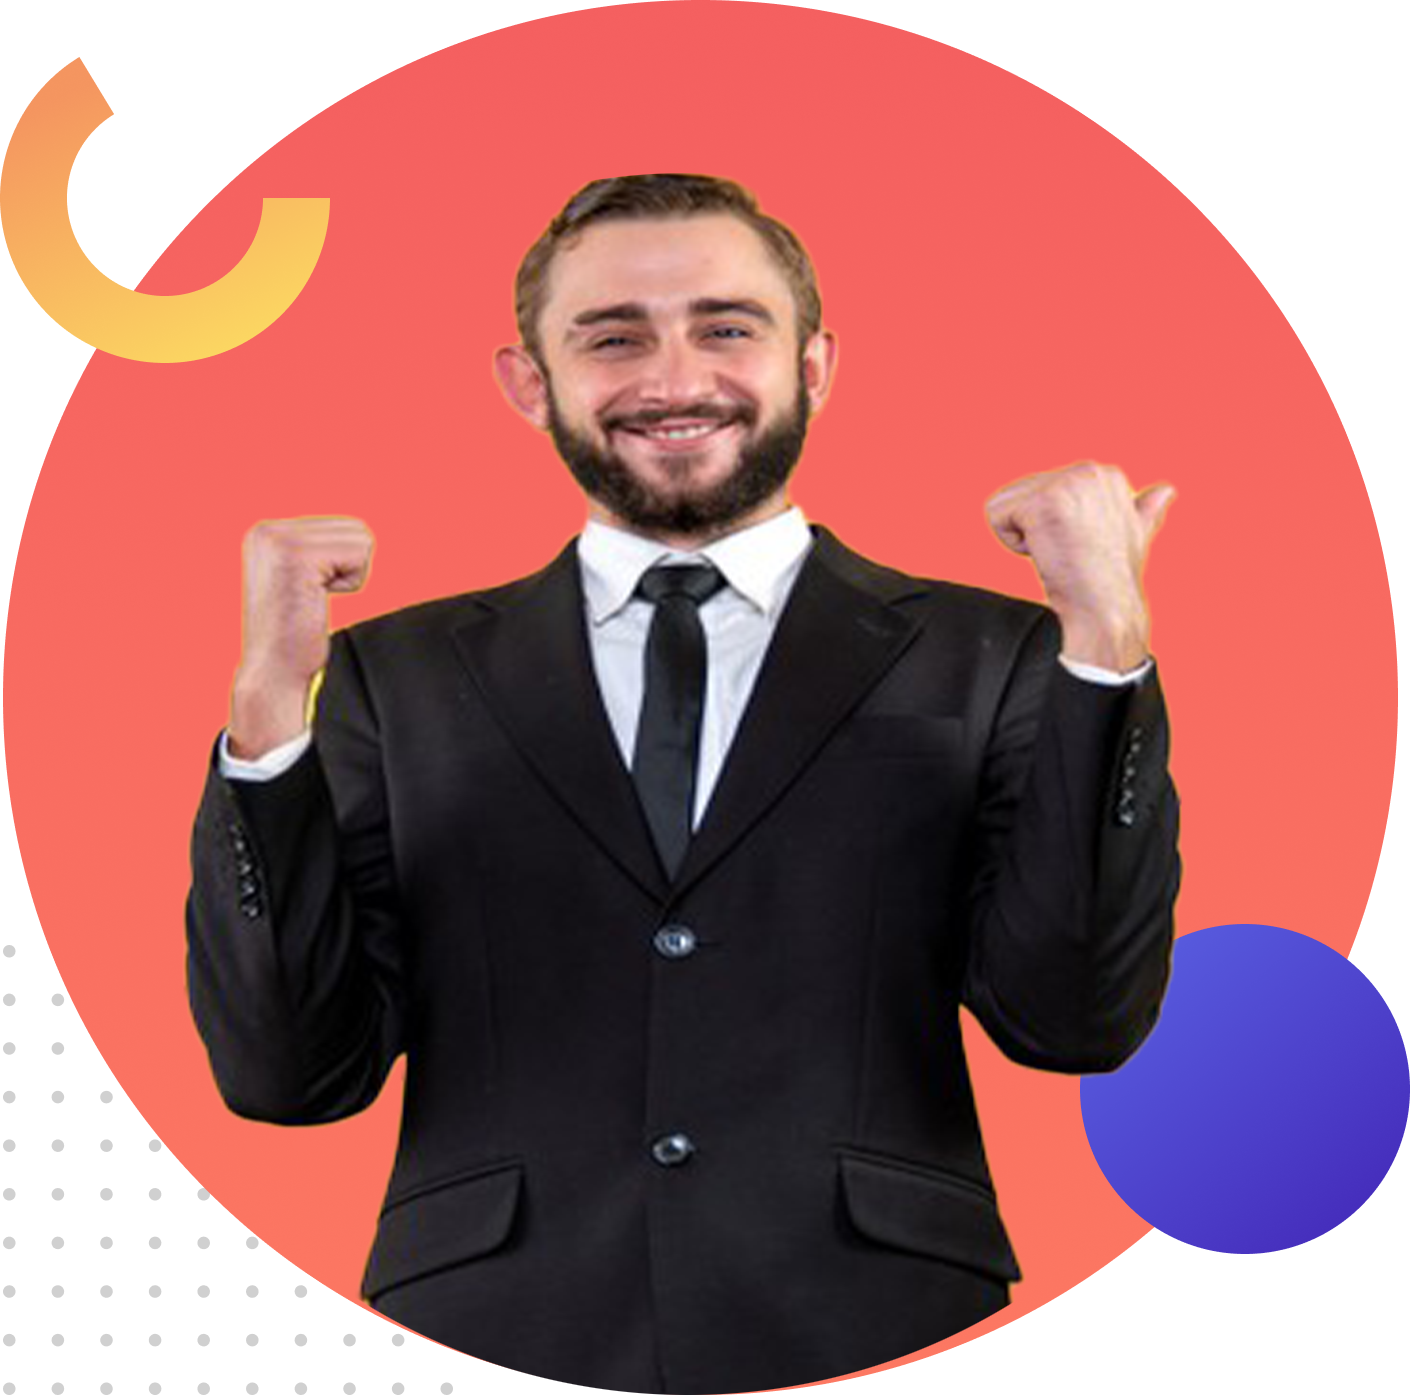
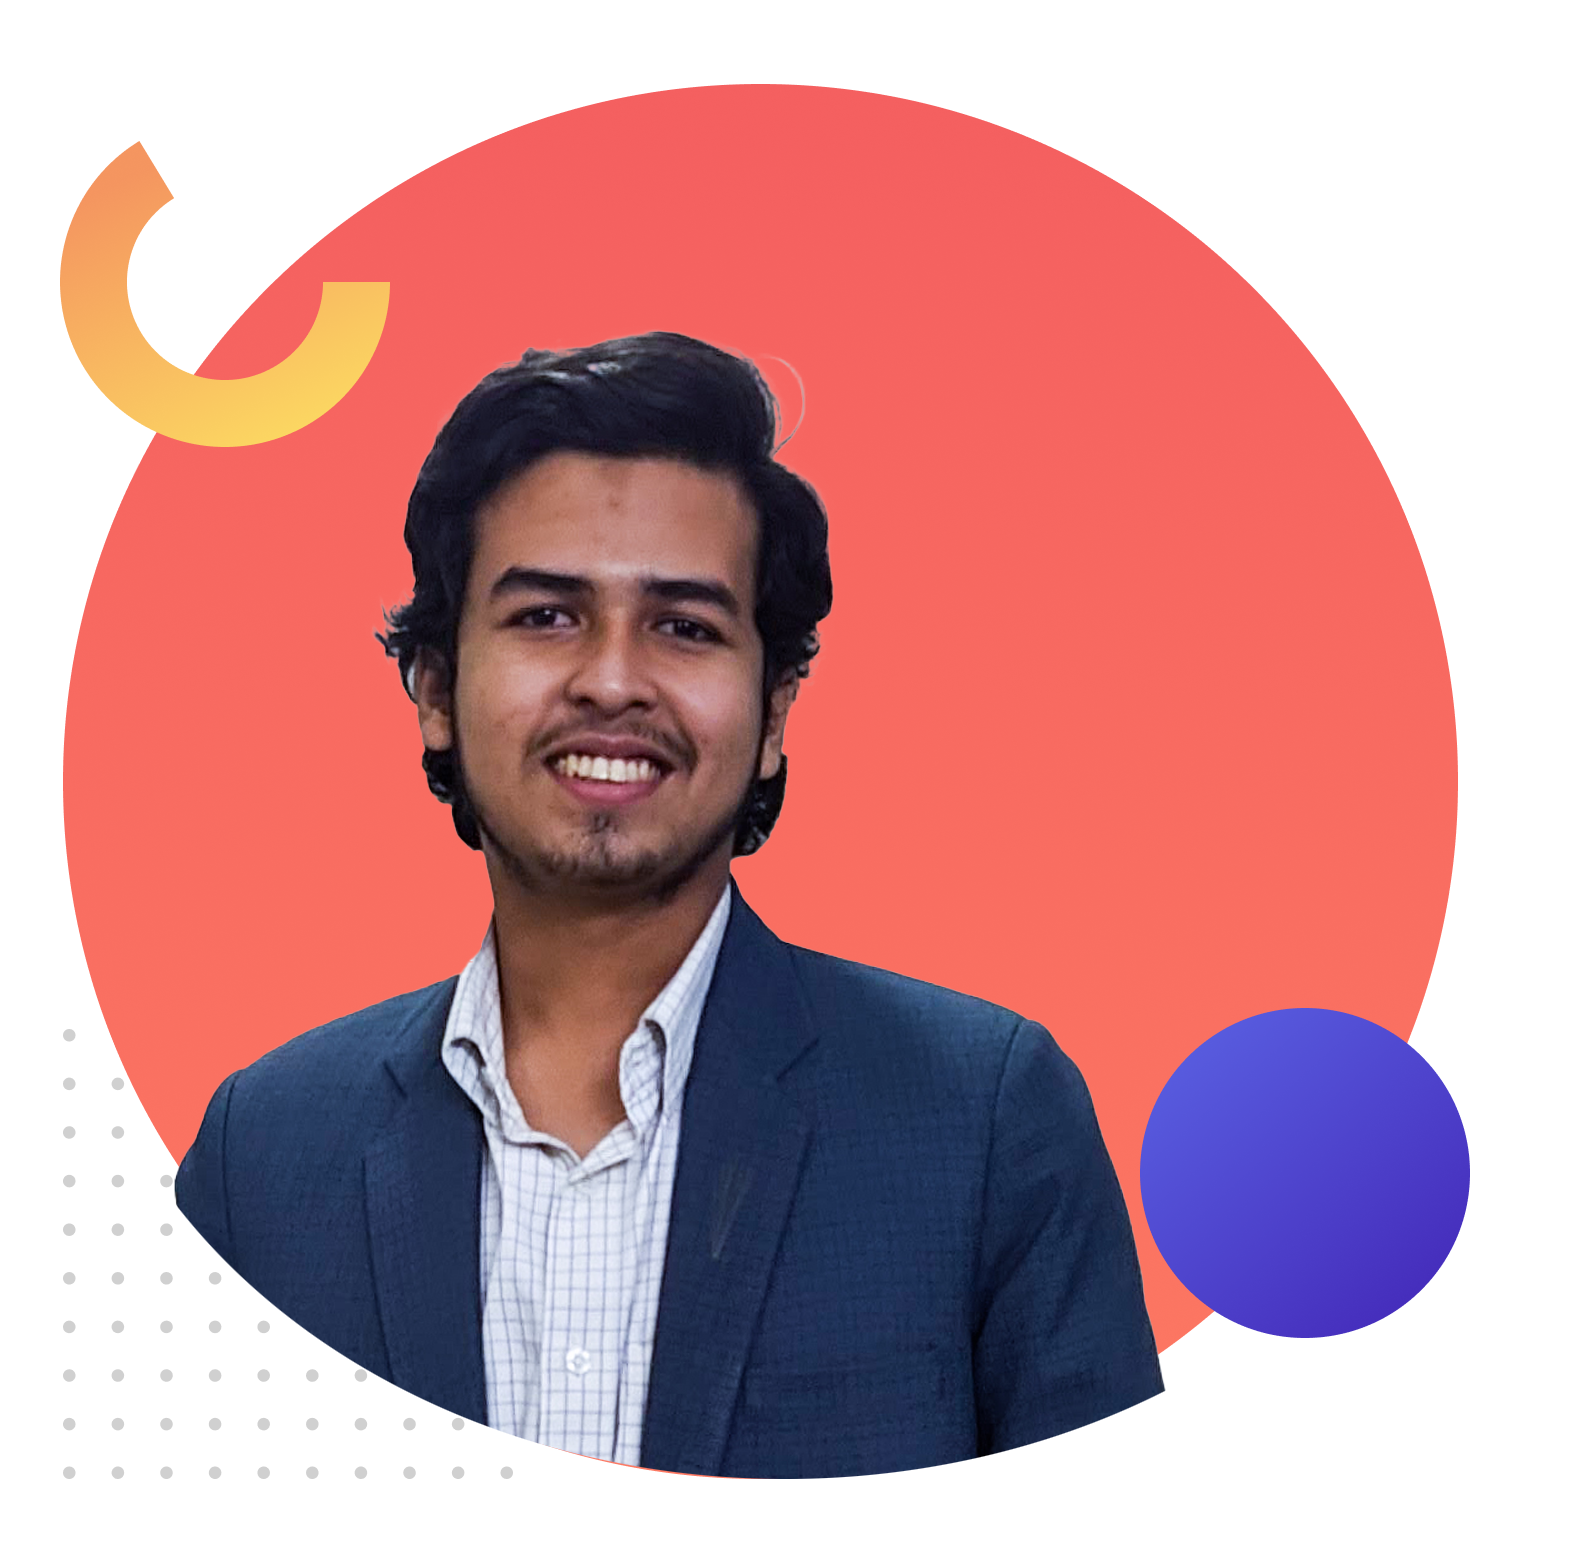
Ready for magrib er namaj

diff --git a/Index.html b/Index.html
@@ -12,7 +12,9 @@
     <link href="https://fonts.googleapis.com/css2?family=Bebas+Neue&family=Open+Sans&display=swap" rel="stylesheet">
     <link rel="preconnect" href="https://fonts.gstatic.com">
     <link href="https://fonts.googleapis.com/css2?family=Bebas+Neue&family=Open+Sans&family=Roboto&display=swap"
-        rel="stylesheet">
+    rel="stylesheet">
+    <script src='https://kit.fontawesome.com/a076d05399.js'></script>
+    <!-- search google and found this script to use for download icon.ref-font awesome -->
 </head>
 
 <body>
@@ -29,7 +31,8 @@
             <h1>HELLO, I'M<br>
                 <span class="name-highlight">ABDULLAH AL RAFEE</span>
             </h1>
-            <p>A Beginner Level Web Developer Learning From Programminh Hero.</p>
+            <h3>Junior Web Developer</h3>
+            <p>A Beginner Level Web Developer Learning From Programming Hero.</p>
 
             <a class="link-button" target="_blank" href="https://www.linkedin.com/in/abdullah-al-rafee-b4830b16b/">HIRE
                 ME</a>
@@ -40,13 +43,14 @@
     </section>
     <section class="about-part">
         <div class="half-width">
-            <img src="./images/Group 33089.png" alt="">
+            <img src="./images/Group 33087.png" alt="">
         </div>
         <div class="half-width">
             <h3>About Me</h3>
             <p>I am a beginner Level web developer. Learning web developments in the banner of programming hero.I am
                 entusiastic to learn and explore new things.</p>
-            <a id="cv-download" href="#" class="link-button"> <i id="download" class='fas fa-download'></i> Download Resume</a>
+            <a id="cv-download" href="#" class="link-button"> <i id="download" class='fas fa-download'></i> Download
+                Resume</a>
         </div>
     </section>
     <section class="project-section">
@@ -87,12 +91,14 @@
         <div class="half-width">
             <div class="single-skill">
                 <p class="skill-img">
-                    <img src="./images/graphic.jpg" alt=""><h5>Graphic Design</h5>
+                    <img src="./images/graphic.jpg" alt="">
+                <h5>Graphic Design</h5>
                 </p>
             </div>
             <div class="single-skill">
                 <p class="skil-img">
-                    <img src="./images/content.jpeg" alt=""><h5>Content Writing</h5>
+                    <img src="./images/content.jpeg" alt="">
+                <h5>Content Writing</h5>
                 </p>
             </div>
         </div>
@@ -100,7 +106,15 @@
     <section class="inquiry">
         <img src="./images/Group_33094_1.png" alt="">
         <h1 class="work-quiry">WORK INQUIRY</h1>
-        <a href="" class="link-button">Let's Chat</a>
+        <a id="talk" href="mailto:rafee.abdullah1@gmail.com" class="link-button">Let's Chat</a>
+    </section>
+    <section class="social-media">
+        <h4>Stay Connected</h4>
+        <h3>Rafee@design.com</h3>
+        <img src="./images/Group 33059.png" alt="">
+        <img src="./images/image 7.png" alt="">
+        <img src="./images/image 6.png" alt="">
+
     </section>
 
 </body>

diff --git a/style.css b/style.css
@@ -14,6 +14,10 @@ body{
     font-weight: 700;
     padding: 10px 20px;
 }
+.head a:hover{
+    background-image: linear-gradient(50deg, rgb(243, 202, 114),white);
+    border-radius: 15px;
+}
 .half-width{
     width: 35%;
     float: left;
@@ -43,8 +47,8 @@ h3{
     color: #FF8367;
 }
 .half-width img{
-    width: 80%;
-    height: 50%;
+    width: 90%;
+    height: 70%;
 }
 p{
     font-family: 'Roboto', sans-serif;
@@ -60,14 +64,19 @@ p{
     color: white;
     font-weight: bold;
 }
+.link-button:hover{
+    background-image: linear-gradient(180 deg, black,white);
+}
 #cv-download{
-    display: inline-block;
-    align-items: center;
+    color:rgb(232, 229, 238);
+    font-size: 18px;
+    margin-right: 5px;
 }
 #cv-download img{
     width: 15px;
     height: 20px;
 }
+
 .three-part{
     width: 25%;
     height: 70%;
@@ -100,8 +109,8 @@ p{
     background-color: rgba(30, 143, 255, 0.13);
     height: 550px;
     text-align: center;
-    width: 60%;
-    margin: 0% 20%;
+    width: 50%;
+    margin: 0% 25%;
     border-radius: 20px;
 }
 .single-skill{
@@ -122,7 +131,8 @@ p{
 }
 .inquiry h1{
     position: absolute;
-    top: 2600px;
+    top: 2650px;
+    padding-top: 0%;
     left: 350px;
     font-size: 50px;
     font-weight: bold;
@@ -130,7 +140,28 @@ p{
 }
 .inquiry a{
     position: absolute;
-    top: 2600px;
+    top: 2700px;
     left: 1000px;
-
+    padding: 20px 35px;
+}
+.social-media{
+    text-align: center;
+    height: 300px;
+}
+.social-media h3{
+    font-family: 'Roboto', sans-serif;
+    color: #363958;
+    padding-top: 0%;
+    font-size: 36px;
+    font-weight: bold;
+}
+.social-media h4{
+    font-family: 'Bebas Neue', cursive;
+    color: #696871;
+    padding-bottom: 0px;
+    font-size: 24px;
+}
+.social-media img{
+    width: 50px;
+    height: 50px;
 }
